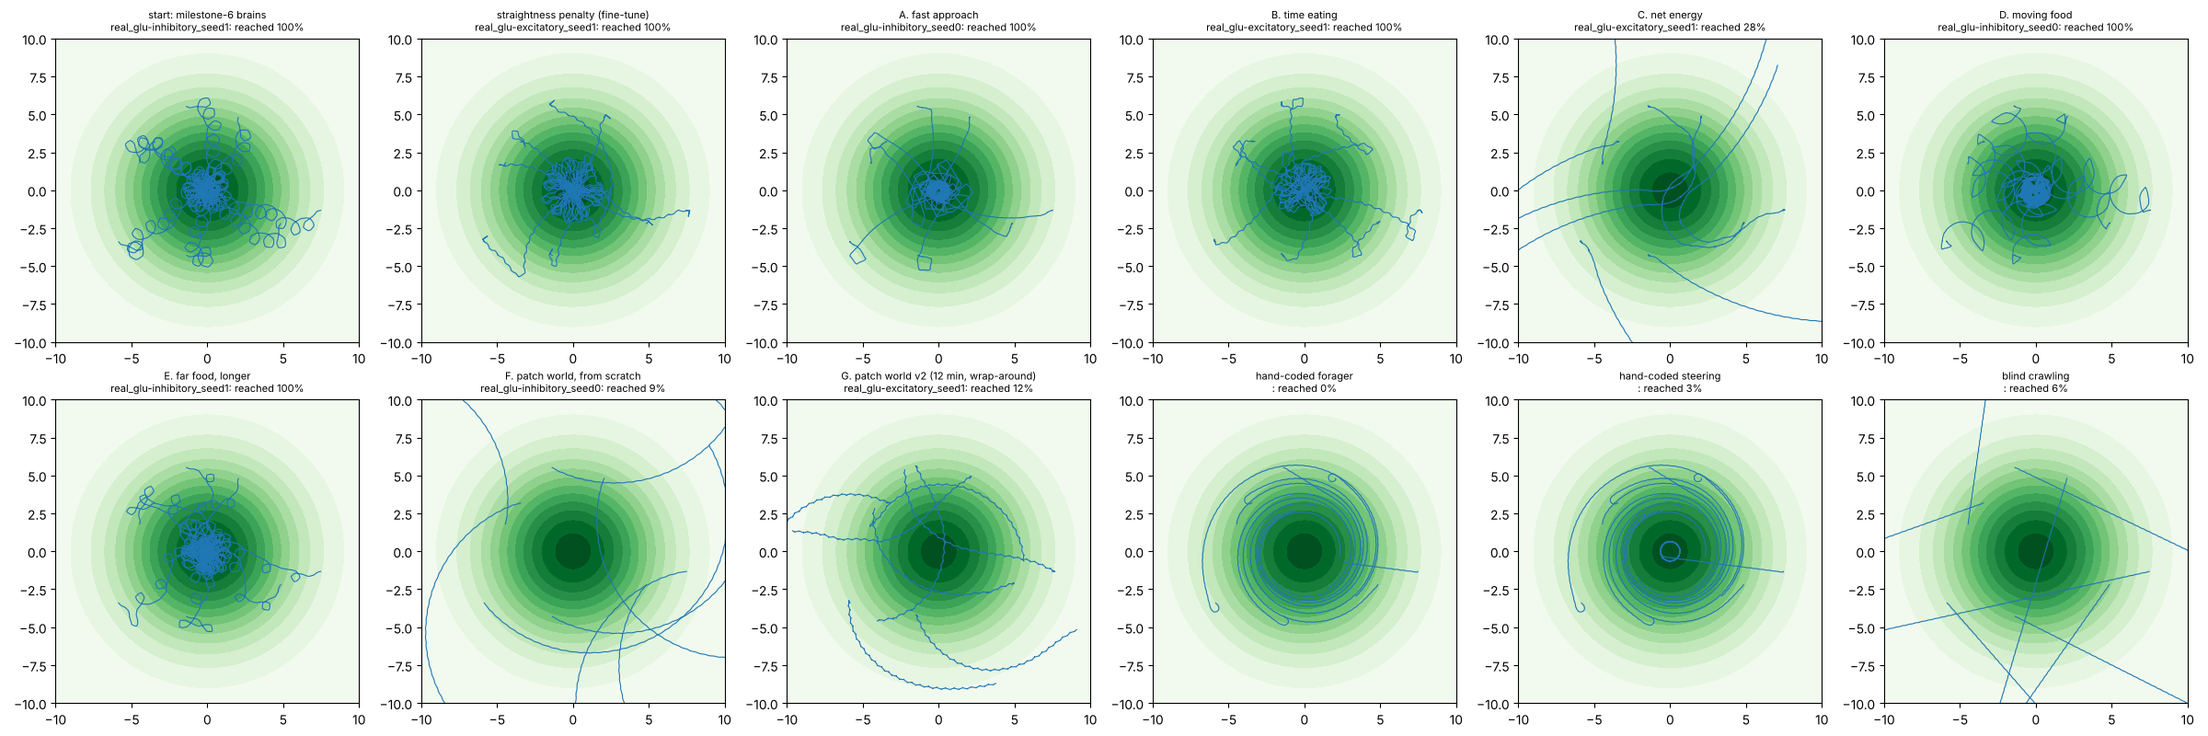
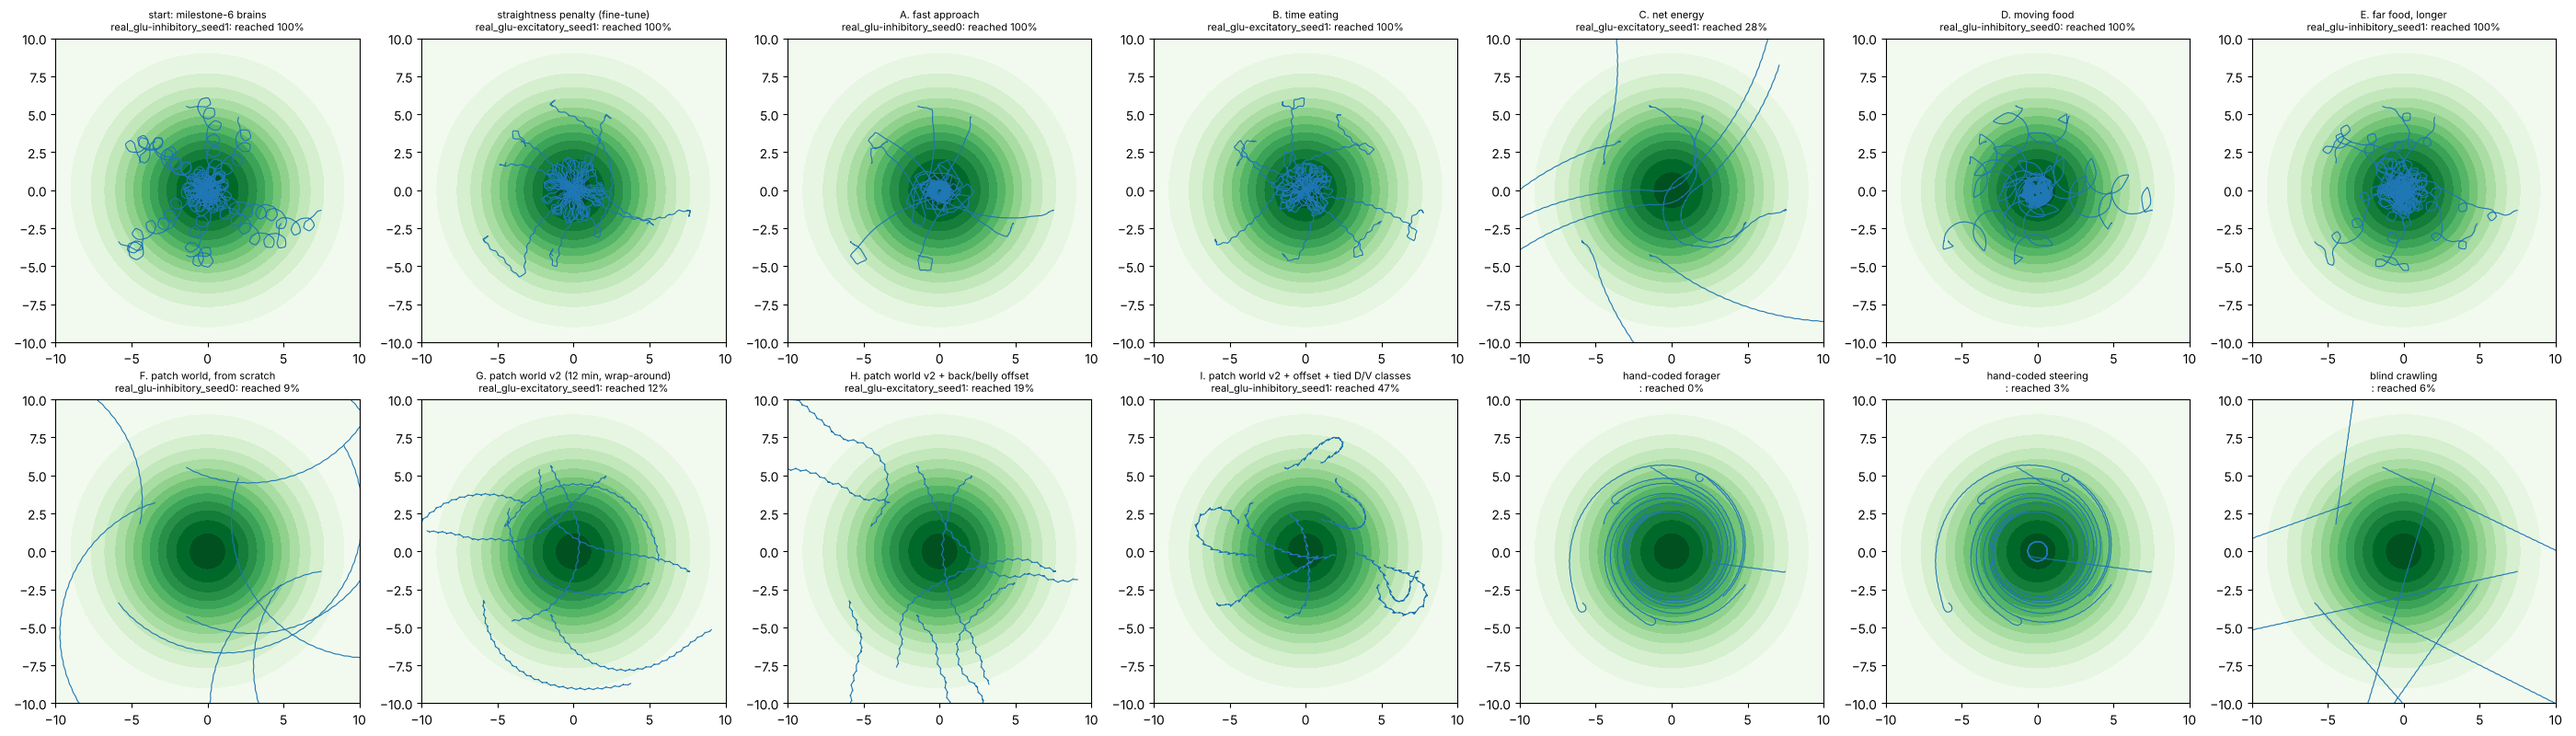
Natural-reward study: common tests including offset and tied classes
Claude-Session: https://claude.ai/code/session_014hVhNRfvdS3L9xvDdFvo3X

diff --git a/reports/natural_rewards/REPORT.md b/reports/natural_rewards/REPORT.md
@@ -40,6 +40,12 @@ Generated by `scripts/compare_natural.py`. Every brain is scored on the same tes
 | G. patch world v2 (12 min, wrap-around) | real_glu-excitatory_seed1 | 12% | never | 1% | 34% | 0% | 8 | 2.81 |
 | G. patch world v2 (12 min, wrap-around) | real_glu-inhibitory_seed0 | 9% | never | 0% | 16% | 3% | 5 | 0.67 |
 | G. patch world v2 (12 min, wrap-around) | real_glu-inhibitory_seed1 | 6% | never | 1% | 41% | 3% | 120 | 1.84 |
+| H. patch world v2 + back/belly offset | real_glu-excitatory_seed1 | 19% | never | 2% | 38% | 6% | 10 | 3.14 |
+| H. patch world v2 + back/belly offset | real_glu-inhibitory_seed0 | 6% | never | 1% | 28% | 3% | 6 | 0.48 |
+| H. patch world v2 + back/belly offset | real_glu-inhibitory_seed1 | 6% | never | 0% | 22% | 3% | 12 | 0.55 |
+| I. patch world v2 + offset + tied D/V classes | real_glu-excitatory_seed1 | 0% | never | 0% | 44% | 0% | 512 | 0.00 |
+| I. patch world v2 + offset + tied D/V classes | real_glu-inhibitory_seed0 | 6% | never | 1% | 38% | 3% | 0 | 0.52 |
+| I. patch world v2 + offset + tied D/V classes | real_glu-inhibitory_seed1 | 47% | never | 6% | 91% | 6% | 154 | 1.90 |
 | hand-coded forager |  | 0% | never | 0% | 100% | 3% | 0 | 1.59 |
 | hand-coded steering |  | 3% | never | 2% | 100% | 9% | 0 | 1.59 |
 | blind crawling |  | 6% | never | 0% | 9% | 3% | 0 | 0.60 |
@@ -57,6 +63,8 @@ Generated by `scripts/compare_natural.py`. Every brain is scored on the same tes
 | E. far food, longer | 75% | 21% | 70% | 64 | 1.57 |
 | F. patch world, from scratch | 5% | 0% | 2% | 19 | 0.66 |
 | G. patch world v2 (12 min, wrap-around) | 7% | 1% | 2% | 50 | 1.33 |
+| H. patch world v2 + back/belly offset | 10% | 1% | 4% | 9 | 1.39 |
+| I. patch world v2 + offset + tied D/V classes | 18% | 2% | 3% | 222 | 0.81 |
 | hand-coded forager | 0% | 0% | 3% | 0 | 1.59 |
 | hand-coded steering | 3% | 2% | 9% | 0 | 1.59 |
 | blind crawling | 6% | 0% | 3% | 0 | 0.60 |
